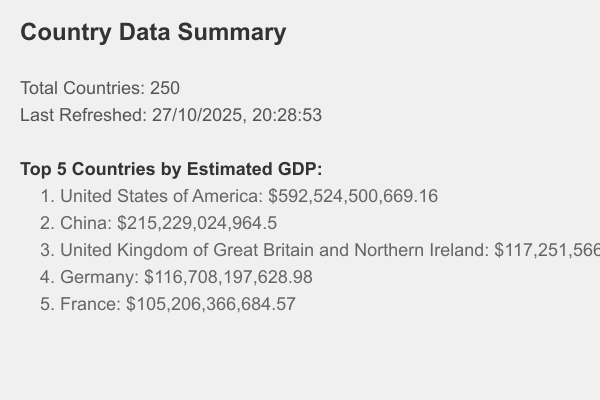
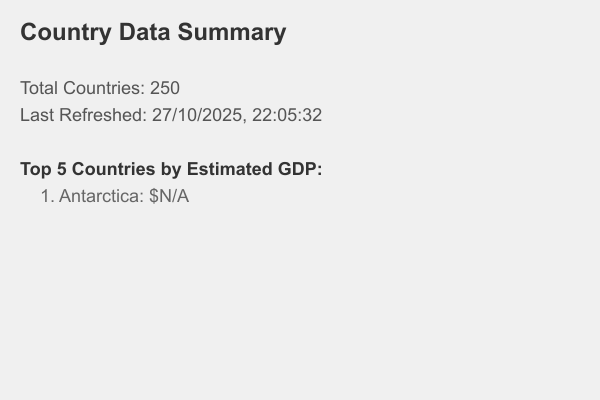
refactor: Update API route to remove versioning and improve clarity

diff --git a/Controllers/countryController.js b/Controllers/countryController.js
@@ -11,35 +11,37 @@ const asyncHandler = fn => (req, res, next) => {
   Promise.resolve(fn(req, res, next)).catch(next);
 };
 
+// Helper function to escape special characters for use in a regular expression
+const escapeRegex = (string) => {
+  return string.replace(/[.*+?^${}()|[\]\\]/g, '\\$&'); // $& means the whole matched string
+};
+
 const refreshCountries = asyncHandler(async (req, res, next) => {
-  let countriesResponse, exchangeRatesResponse;
-
   try {
-    const [countriesResponse, exchangeRatesResponse] = await Promise.all([
-      axios.get(COUNTRIES_API_URL),
-      axios.get(EXCHANGE_RATE_API_URL)
-    ]);
-  } catch (error) {
-    const apiName = error.config?.url?.includes('restcountries') ? 'restcountries.com' : 'open.er-api.com';
-    console.error(`Error fetching data from ${apiName}:`, error.message);
-    // Send a 503 error and stop execution
-    return res.status(503).json({
-      error: "External data source unavailable",
-      details: `Could not fetch data from ${apiName}`
-    });
-  }
+    // Updated API URL to match the one defined in constants
+    const response = await fetch(COUNTRIES_API_URL);
+    if (!response.ok) {
+      throw new Error(`API request failed with status: ${response.status}`);
+    }
+    const countriesData = await response.json();
 
-    const countriesData = countriesResponse.data;
+    // Validate the response data
+    if (!Array.isArray(countriesData)) {
+      throw new Error('Invalid data format received from external API');
+    }
+
+    const exchangeRatesResponse = await axios.get(EXCHANGE_RATE_API_URL);
+    if (!exchangeRatesResponse.data || !exchangeRatesResponse.data.rates) {
+      throw new Error('Failed to fetch exchange rates');
+    }
+    
     const rates = exchangeRatesResponse.data.rates;
     const refreshTime = new Date();
 
-    if (!countriesData || !rates) {
-      return res.status(503).json({ error: "External data source unavailable", details: "Invalid data received from external APIs." });
-    }
-
     const upsertPromises = countriesData.map(async (country) => {
-      const currencyInfo = country.currencies && country.currencies[0];
-      const currency_code = currencyInfo ? currencyInfo.code : null;
+      // Updated to match v2 API response structure
+      const currencyInfo = country.currencies ? Object.values(country.currencies)[0] : null;
+      const currency_code = currencyInfo ? Object.keys(country.currencies)[0] : null;
 
       let exchange_rate = null;
       if (currency_code && rates[currency_code]) {
@@ -56,7 +58,7 @@ const refreshCountries = asyncHandler(async (req, res, next) => {
 
       const countryPayload = {
         name: country.name,
-        capital: country.capital,
+        capital: country.capital ? country.capital[0] : null,
         region: country.region,
         population: country.population,
         flag_url: country.flag,
@@ -65,8 +67,9 @@ const refreshCountries = asyncHandler(async (req, res, next) => {
         estimated_gdp,
       };
 
+      const escapedName = escapeRegex(country.name);
       return Country.findOneAndUpdate(
-        { name: { $regex: new RegExp('^' + country.name + '$', 'i') } }, // Case-insensitive match
+        { name: { $regex: new RegExp('^' + escapedName + '$', 'i') } },
         countryPayload,
         { upsert: true, new: true, runValidators: true }
       );
@@ -91,6 +94,13 @@ const refreshCountries = asyncHandler(async (req, res, next) => {
       countries_processed: updatedCountries.length
     });
 
+  } catch (error) {
+    console.error('Refresh countries error:', error);
+    return res.status(500).json({
+      error: 'Internal server error',
+      message: error.message || 'Failed to refresh countries data'
+    });
+  }
 });
 
 const getCountries = asyncHandler(async (req, res, next) => {

diff --git a/index.js b/index.js
@@ -19,7 +19,7 @@ app.get('/', (req, res) => {
   res.send('Country Currency & Exchange API is Working!');
 });
 
-app.use('/api/v1', countryRoutes);
+app.use('/api', countryRoutes);
 
 app.use((req, res, next) => {
   res.status(404).json({ error: 'Endpoint not found' });
